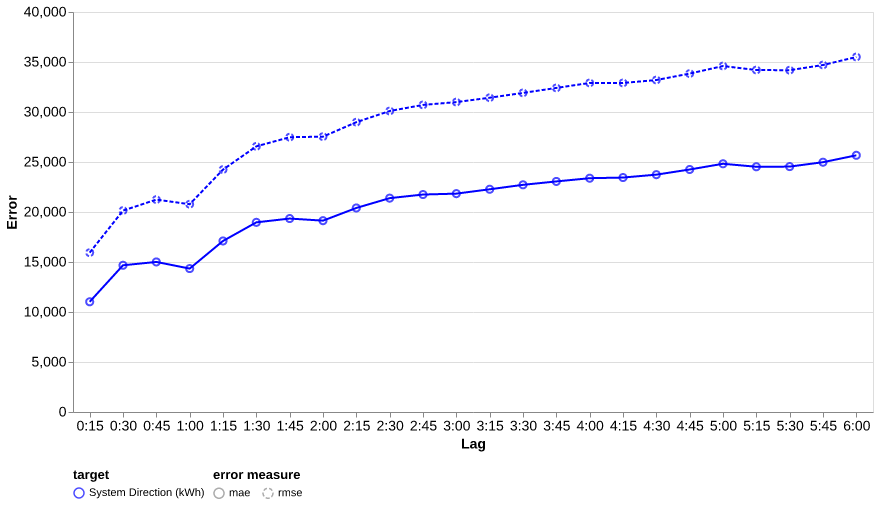
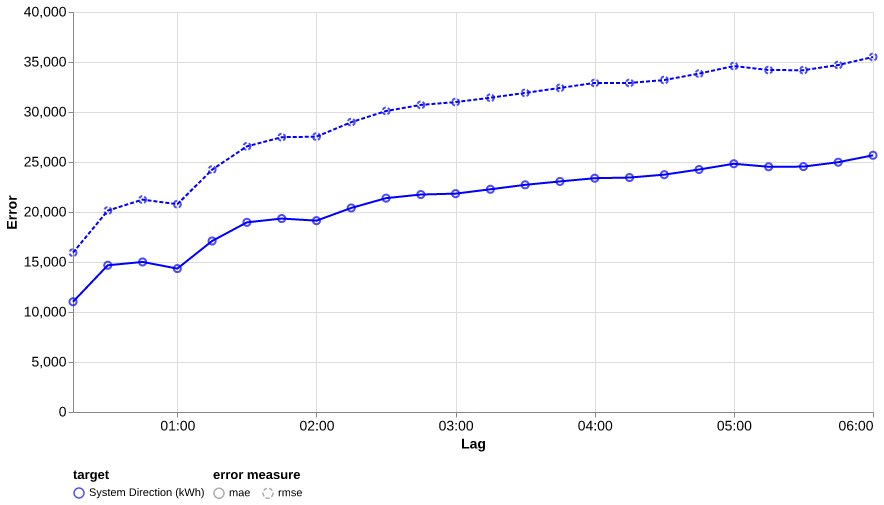
better x ticks

diff --git a/naive_model.py b/naive_model.py
@@ -1,5 +1,4 @@
 import polars as pl
-
 from sklearn.metrics import mean_absolute_error, root_mean_squared_error
 import altair as alt
 
@@ -14,17 +13,10 @@ TARGET_COLS = (
 )
 
 
-def lag_to_time_label(lag: int) -> str:
-    minutes = lag * 15
-    hours = minutes // 60
-    mins = minutes % 60
-    return f"{hours}:{mins:02d}"
-
-
 def lag_chart(df, colors=["red", "green"], width=800, height=400):
     # Base encodings
-    base = alt.Chart(df.with_columns((pl.col("lag").map_elements(lag_to_time_label, return_dtype=str)))).encode(
-        x=alt.X("lag", axis=alt.Axis(title="Lag", labelAngle=0, labelFontSize=14, titleFontSize=14)),
+    base = alt.Chart(df).encode(
+        x=alt.X("lag:T", axis=alt.Axis(title="Lag", labelAngle=0, labelFontSize=14, titleFontSize=14, tickCount=4, format="%H:%M")),
         y=alt.Y("error:Q", axis=alt.Axis(title="Error", labelFontSize=14, titleFontSize=14)),
         color=alt.Color("target", scale=alt.Scale(range=colors)).legend(
             orient="bottom", labelFontSize=11, titleFontSize=13, labelLimit=310
@@ -61,8 +53,13 @@ for lag in TIMELAGS:
             }
         )
 
-results = pl.from_dicts(results).unpivot(["mae", "rmse"], index=["target", "lag"], variable_name="error measure", value_name="error")
-
+results = (
+    pl.from_dicts(results)
+    .unpivot(["mae", "rmse"], index=["target", "lag"], variable_name="error measure", value_name="error")
+    .with_columns(
+        (pl.col("lag") * 15 * 60 * 1000).cast(pl.Datetime("ms")),
+    )
+)
 
 chart = lag_chart(results.filter(pl.col("target") == "System Direction (kWh)"), ["blue"])
 chart.save("figures/naive_model_performance_system_direction.png")
